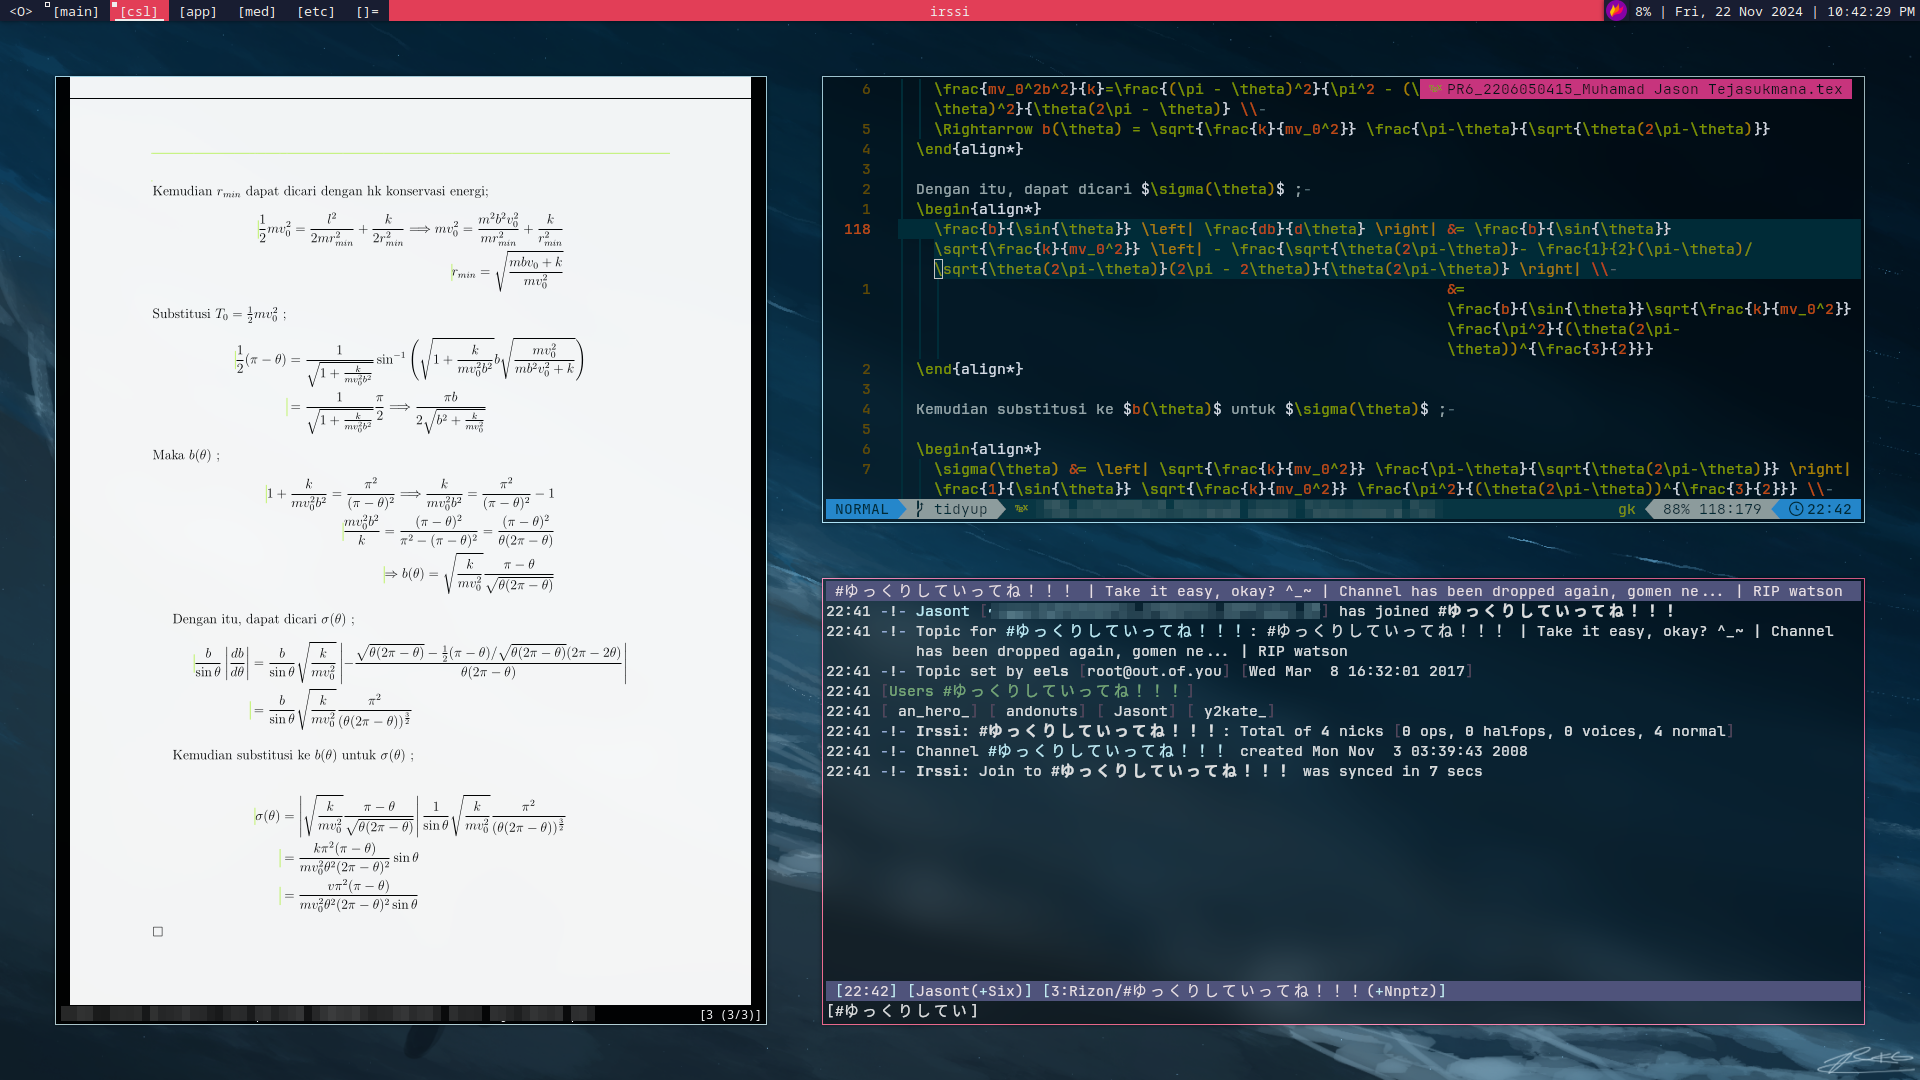
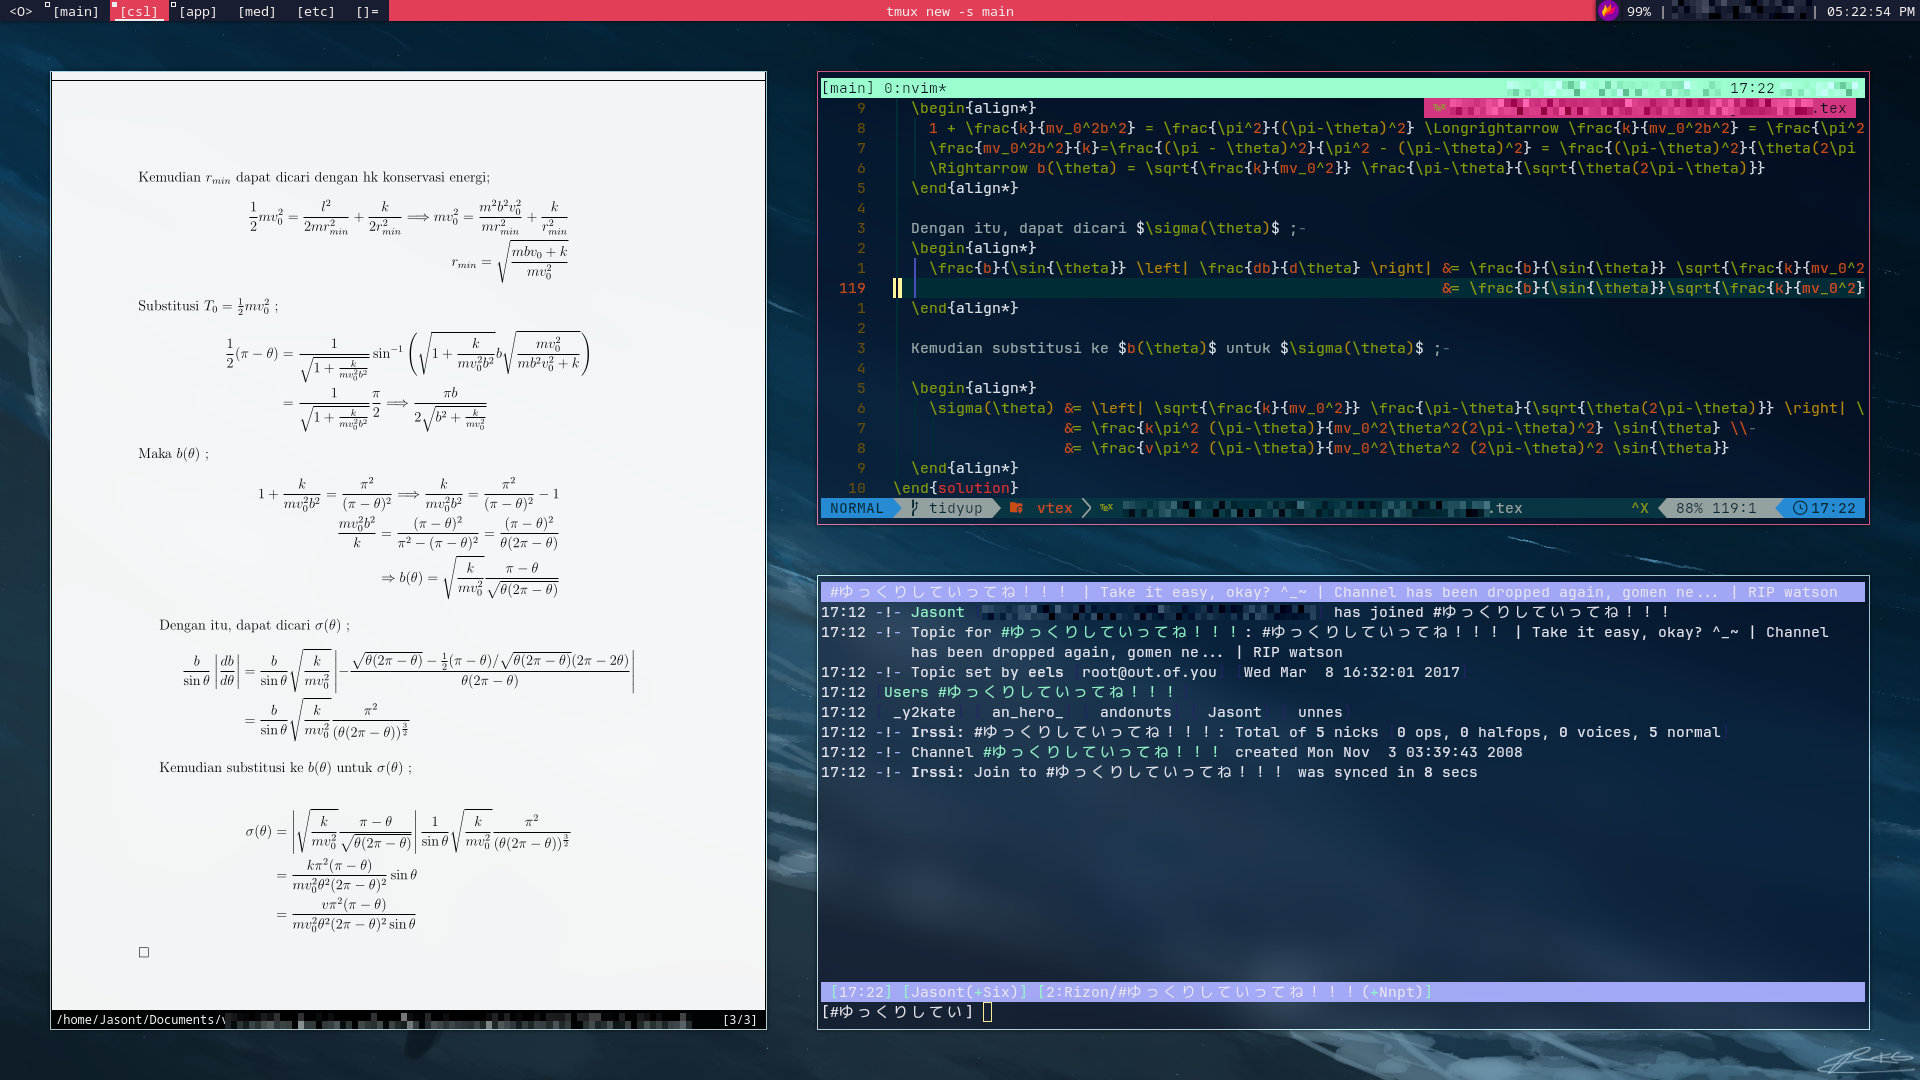
zsh and mirror configs

diff --git a/readme.md b/readme.md
@@ -149,6 +149,17 @@ sudo cp sortedlist /etc/pacman.d/mirrorlist
 sudo pacman -Syu
 ```
 
+or, can use [Reflector](https://wiki.archlinux.org/title/Reflector)
+
+```bash
+# takes the latest updated 20 server lists based on provided country
+# from the arch mirror status page https://archlinux.org/mirrors/status/
+sudo reflector --verbose --country Indonesia,Singapore,Japan,Australia --latest 20 --sort rate --save $HOME/rankedmirrors
+sudo mv /etc/pacman.d/mirrorlist /etc/pacman.d/mirrorlist.backup
+sudo cp $HOME/rankedmirrors /etc/pacman.d/mirrorlist
+
+```
+
 ## AUR Package Manager
 
 ```bash
